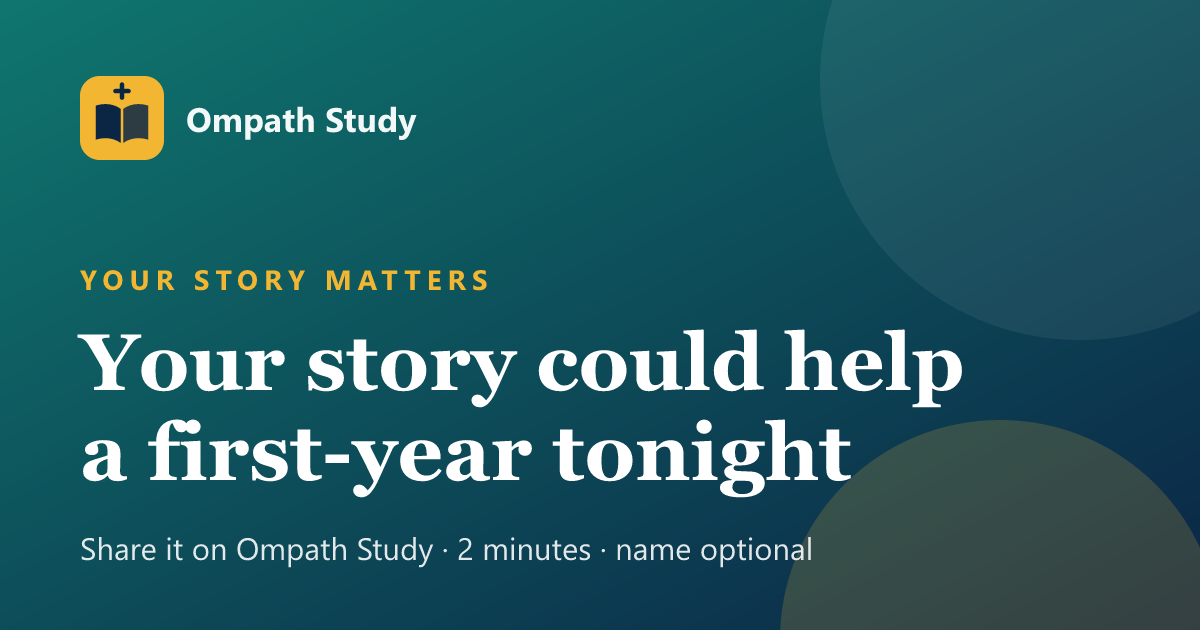
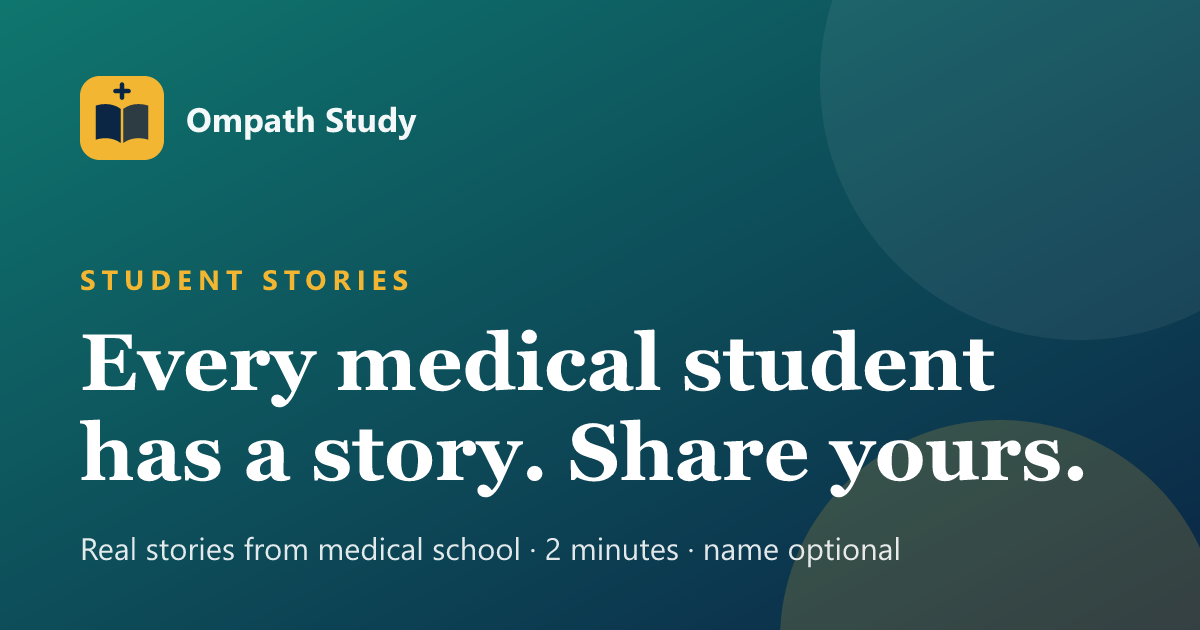
AI: free daily limits with in-chat upgrade card, Explain and missed-question list in the drill; inclusive story sharing wording and thumbnail

diff --git a/src/components/ai/QuestionDrill.tsx b/src/components/ai/QuestionDrill.tsx
@@ -1,30 +1,49 @@
 import { useCallback, useEffect, useMemo, useRef, useState } from "react";
-import { ExternalLink, Eye, EyeOff, Loader2, Shuffle } from "lucide-react";
+import { Check, ExternalLink, Eye, EyeOff, Loader2, Shuffle, Sparkles, X } from "lucide-react";
 import { Dialog, DialogContent, DialogDescription, DialogTitle } from "@/components/ui/dialog";
 import { Answer } from "@/components/ai/AnswerText";
+import UpgradeCard from "@/components/ai/UpgradeCard";
+import { FREE_DAILY_PICTURES, countPictures, picturesUsedToday } from "@/lib/ompathAi";
 import { SUBJECT_LABEL, loadBanks, pickQuestions, sectionFor, sectionsOf, type Bank, type BankQuestion, type Subject } from "@/lib/questionBank";
 
 const SELECT = "h-10 min-w-0 flex-1 rounded-lg border border-border bg-background px-2.5 text-sm font-semibold outline-none focus:border-primary";
+const MISSED_KEY = "ompath_missed_v1";
+const MISSED = "__missed__";
+
+const readMissed = (): BankQuestion[] => { try { const v = JSON.parse(localStorage.getItem(MISSED_KEY) ?? "[]"); return Array.isArray(v) ? v : []; } catch { return []; } };
+const writeMissed = (list: BankQuestion[]) => { try { localStorage.setItem(MISSED_KEY, JSON.stringify(list.slice(-120))); } catch { /* storage full */ } };
 
 /**
  * Spot questions from the anatomy banks, inside Ompath AI: choose Gross anatomy, Histology or Embryology, narrow to a region or tissue,
- * and get five good questions at a time (ones with pictures first). The picture is shown right here and the answer opens on tap.
+ * and get five good questions at a time (ones with pictures first). The picture is shown right here, the answer opens on tap,
+ * "Explain" asks the AI to teach it, and questions marked "Missed" are kept so they can be revised later.
+ * Free accounts get a daily number of picture questions; the first set is always free.
  */
-export default function QuestionDrill({ subject: initialSubject, topic, canReveal, onNeedSubscribe, onOpen }: { subject: Subject; topic: string; canReveal: boolean; onNeedSubscribe: () => void; onOpen: (href: string) => void }) {
+export default function QuestionDrill({ subject: initialSubject, topic, canReveal, onNeedSubscribe, onOpen, onExplain }: { subject: Subject; topic: string; canReveal: boolean; onNeedSubscribe: () => void; onOpen: (href: string) => void; onExplain: (q: BankQuestion) => void }) {
   const [subject, setSubject] = useState<Subject>(initialSubject);
   const [banks, setBanks] = useState<Bank[] | null>(null);
   const [section, setSection] = useState("");
   const [picked, setPicked] = useState<BankQuestion[]>([]);
   const [shown, setShown] = useState<Set<string>>(new Set());
+  const [missed, setMissed] = useState<BankQuestion[]>(readMissed);
+  const [marked, setMarked] = useState<Record<string, "got" | "missed">>({});
+  const [blocked, setBlocked] = useState(false);
   const [zoom, setZoom] = useState<{ src: string; alt: string } | null>(null);
+  const [, bump] = useState(0);
   const seen = useRef<Set<string>>(new Set());
   const first = useRef(true);
 
-  const draw = useCallback((b: Bank[], sec: string) => {
-    const next = pickQuestions(b, sec, 5, seen.current);
+  const myMissed = useMemo(() => missed.filter((q) => banks?.some((b) => b.id === q.bankId)), [missed, banks]);
+
+  const draw = useCallback((b: Bank[], sec: string, counted: boolean, mine: BankQuestion[]) => {
+    if (counted && !canReveal && picturesUsedToday() >= FREE_DAILY_PICTURES) { setBlocked(true); return; }
+    setBlocked(false);
+    const source = sec === MISSED ? [{ id: "missed", title: "Missed", href: "", subject: "gross" as Subject, questions: mine }] : b;
+    const next = pickQuestions(source, sec === MISSED ? "" : sec, 5, seen.current);
     next.forEach((q) => seen.current.add(q.id));
-    setPicked(next); setShown(new Set());
-  }, []);
+    if (counted && !canReveal) countPictures(next.filter((q) => q.image).length);
+    setPicked(next); setShown(new Set()); setMarked({}); bump((n) => n + 1);
+  }, [canReveal]);
 
   useEffect(() => {
     let on = true;
@@ -35,37 +54,48 @@ export default function QuestionDrill({ subject: initialSubject, topic, canRevea
       const sec = first.current ? sectionFor(sectionsOf(b), topic) : "";
       first.current = false;
       setSection(sec);
-      draw(b, sec);
+      // opening the drill is always free; only asking for more is counted
+      if (!canReveal && picturesUsedToday() >= FREE_DAILY_PICTURES) setBlocked(true); else draw(b, sec, false, []);
     });
     return () => { on = false; };
-  }, [subject, topic, draw]);
+  }, [subject, topic, draw, canReveal]);
 
   const sections = useMemo(() => (banks ? sectionsOf(banks) : []), [banks]);
   const total = useMemo(() => (banks ?? []).reduce((n, b) => n + b.questions.length, 0), [banks]);
-  const inSection = sections.find((s) => s.name === section)?.count ?? total;
+  const inSection = section === MISSED ? myMissed.length : sections.find((s) => s.name === section)?.count ?? total;
   const main = banks?.[0];
+  const left = Math.max(0, FREE_DAILY_PICTURES - picturesUsedToday());
 
   const reveal = (q: BankQuestion) => {
     if (!canReveal) { onNeedSubscribe(); return; }
     setShown((s) => { const n = new Set(s); n.has(q.id) ? n.delete(q.id) : n.add(q.id); return n; });
   };
+  const mark = (q: BankQuestion, how: "got" | "missed") => {
+    setMarked((m) => ({ ...m, [q.id]: how }));
+    const rest = missed.filter((x) => x.question !== q.question || x.bankId !== q.bankId);
+    const next = how === "missed" ? [...rest, q] : rest;
+    setMissed(next); writeMissed(next);
+  };
 
   return (
     <section className="rounded-2xl border border-border bg-card p-3" aria-label="Question drill">
       <div className="flex flex-wrap gap-2">
-        <select value={subject} onChange={(e) => setSubject(e.target.value as Subject)} aria-label="Subject" className={SELECT}>
+        <select value={subject} onChange={(e) => { setSubject(e.target.value as Subject); setBlocked(false); }} aria-label="Subject" className={SELECT}>
           {(Object.keys(SUBJECT_LABEL) as Subject[]).map((s) => <option key={s} value={s}>{SUBJECT_LABEL[s]}</option>)}
         </select>
-        <select value={section} onChange={(e) => { setSection(e.target.value); if (banks) { seen.current = new Set(); draw(banks, e.target.value); } }} aria-label="Section" disabled={!banks} className={SELECT}>
+        <select value={section} onChange={(e) => { setSection(e.target.value); if (banks) { seen.current = new Set(); draw(banks, e.target.value, true, myMissed); } }} aria-label="Section" disabled={!banks} className={SELECT}>
           <option value="">All sections ({total})</option>
+          {myMissed.length > 0 && <option value={MISSED}>My missed questions ({myMissed.length})</option>}
           {sections.map((s) => <option key={s.name} value={s.name}>{s.name} ({s.count})</option>)}
         </select>
       </div>
 
       {banks === null ? (
         <p className="flex items-center gap-2 px-1 py-6 text-sm text-muted-foreground"><Loader2 className="h-4 w-4 animate-spin" /> Getting the questions…</p>
+      ) : blocked ? (
+        <div className="mt-3"><UpgradeCard kind="pictures" /></div>
       ) : picked.length === 0 ? (
-        <p className="px-1 py-6 text-sm text-muted-foreground">No {SUBJECT_LABEL[subject].toLowerCase()} questions are on the site yet.</p>
+        <p className="px-1 py-6 text-sm text-muted-foreground">{section === MISSED ? "Nothing missed here. Well done." : `No ${SUBJECT_LABEL[subject].toLowerCase()} questions are on the site yet.`}</p>
       ) : (
         <ol className="mt-3 space-y-3">
           {picked.map((q, i) => (
@@ -80,17 +110,26 @@ export default function QuestionDrill({ subject: initialSubject, topic, canRevea
                 {shown.has(q.id) ? <EyeOff className="h-3.5 w-3.5" /> : <Eye className="h-3.5 w-3.5" />}
                 {shown.has(q.id) ? "Hide answer" : canReveal ? "Reveal answer" : "Reveal (subscribers)"}
               </button>
-              {shown.has(q.id) && <div className="mt-2 rounded-lg border border-emerald-500/30 bg-emerald-500/5 p-3"><Answer text={q.answer} compact /></div>}
+              {shown.has(q.id) && (
+                <div className="mt-2 space-y-2.5">
+                  <div className="rounded-lg border border-emerald-500/30 bg-emerald-500/5 p-3"><Answer text={q.answer} compact /></div>
+                  <div className="flex flex-wrap items-center gap-1.5">
+                    <button type="button" onClick={() => mark(q, "got")} aria-pressed={marked[q.id] === "got"} className={`inline-flex items-center gap-1 rounded-full border px-3 py-1 text-xs font-bold ${marked[q.id] === "got" ? "border-emerald-500 bg-emerald-500 text-white" : "border-border hover:border-emerald-500"}`}><Check className="h-3.5 w-3.5" /> Got it</button>
+                    <button type="button" onClick={() => mark(q, "missed")} aria-pressed={marked[q.id] === "missed"} className={`inline-flex items-center gap-1 rounded-full border px-3 py-1 text-xs font-bold ${marked[q.id] === "missed" ? "border-destructive bg-destructive text-white" : "border-border hover:border-destructive"}`}><X className="h-3.5 w-3.5" /> Missed it</button>
+                    <button type="button" onClick={() => onExplain(q)} className="inline-flex items-center gap-1 rounded-full border border-primary/40 bg-primary/5 px-3 py-1 text-xs font-bold text-primary hover:bg-primary/10"><Sparkles className="h-3.5 w-3.5" /> Explain</button>
+                  </div>
+                </div>
+              )}
             </li>
           ))}
         </ol>
       )}
 
-      {banks && picked.length > 0 && (
+      {banks && !blocked && picked.length > 0 && (
         <div className="mt-3 flex flex-wrap items-center gap-2">
-          <button type="button" onClick={() => draw(banks, section)} className="inline-flex items-center gap-1.5 rounded-lg bg-primary px-3.5 py-2 text-sm font-bold text-primary-foreground"><Shuffle className="h-4 w-4" /> 5 more</button>
-          {main && <button type="button" onClick={() => onOpen(main.href)} className="inline-flex items-center gap-1.5 rounded-lg border border-border px-3.5 py-2 text-sm font-bold hover:border-primary hover:text-primary"><ExternalLink className="h-4 w-4" /> Open the full bank</button>}
-          <span className="text-xs text-muted-foreground">{inSection} questions here</span>
+          <button type="button" onClick={() => draw(banks, section, true, myMissed)} className="inline-flex items-center gap-1.5 rounded-lg bg-primary px-3.5 py-2 text-sm font-bold text-primary-foreground"><Shuffle className="h-4 w-4" /> 5 more</button>
+          {main && section !== MISSED && <button type="button" onClick={() => onOpen(main.href)} className="inline-flex items-center gap-1.5 rounded-lg border border-border px-3.5 py-2 text-sm font-bold hover:border-primary hover:text-primary"><ExternalLink className="h-4 w-4" /> Open the full bank</button>}
+          <span className="text-xs text-muted-foreground">{inSection} questions here{!canReveal ? ` · ${left} free picture questions left today` : ""}</span>
         </div>
       )}
 

diff --git a/src/components/ai/OmpathAIHost.tsx b/src/components/ai/OmpathAIHost.tsx
@@ -9,6 +9,7 @@ import NotePreview from "@/components/ai/NotePreview";
 import OmpathMark from "@/components/ai/OmpathMark";
 import { Answer } from "@/components/ai/AnswerText";
 import QuestionDrill from "@/components/ai/QuestionDrill";
+import UpgradeCard from "@/components/ai/UpgradeCard";
 import { SUBJECT_LABEL, drillIntent } from "@/lib/questionBank";
 import { supabase } from "@/integrations/supabase/client";
 import { useStudentAccess } from "@/lib/student";
@@ -146,7 +147,7 @@ export default function OmpathAIHost() {
 
   useEffect(() => { if (open) { try { sessionStorage.removeItem(RESUME_KEY); } catch { /* ignore */ } setResume(false); } }, [open]);
 
-  async function ask(question: string, opts: { fresh?: boolean } = {}) {
+  async function ask(question: string, opts: { fresh?: boolean; context?: string } = {}) {
     const text = question.trim();
     if (text.length < 2 || busy) return;
     let sid = aiStore.get().activeId;
@@ -212,7 +213,7 @@ export default function OmpathAIHost() {
       setBusy(false);
     }
     if (limitHit) {
-      aiStore.addTurn(sessionId, { id, q: text, answer: "", hits: [], grounded: true, error: `You have used today's ${FREE_DAILY_QUESTIONS} free questions. Subscribe for unlimited, or come back tomorrow. Greetings and questions you have asked before are still instant.`, at: Date.now() });
+      aiStore.addTurn(sessionId, { id, q: text, answer: "", hits: [], grounded: true, error: "You have reached today's free AI limit.", upgrade: "questions", at: Date.now() });
       aiStore.flush();
       return;
     }
@@ -234,7 +235,7 @@ export default function OmpathAIHost() {
         return;
       }
       countQuestion();
-      const answer = await streamAnswer({ question: text, history: prior, retrieval }, { onText: (full) => aiStore.patchTurn(sessionId, id, { answer: full }), signal: abort.current.signal });
+      const answer = await streamAnswer({ question: opts.context ? `${text}\n\nThe official answer key for this question, from the Ompath bank:\n${opts.context}` : text, history: prior, retrieval }, { onText: (full) => aiStore.patchTurn(sessionId, id, { answer: full }), signal: abort.current.signal });
       aiStore.patchTurn(sessionId, id, { answer });
       aiStore.flush();
       if (answer.trim().length > 40) { saveCached(text, { answer, grounded: retrieval.grounded, hits: retrieval.hits, followUps: followUps(retrieval.parsed) }); void saveShared(text, answer, retrieval.grounded); }
@@ -379,7 +380,8 @@ export default function OmpathAIHost() {
                           </div>
                         )}
                       </div>
-                      {t.drill && <QuestionDrill key={t.id} subject={t.drill.subject} topic={t.drill.topic} canReveal={unlimited} onNeedSubscribe={() => openSubscribePrompt("Subscribe to reveal answers.")} onOpen={(href) => goFull({ href } as SiteHit)} />}
+                      {t.drill && <QuestionDrill key={t.id} subject={t.drill.subject} topic={t.drill.topic} canReveal={unlimited} onNeedSubscribe={() => openSubscribePrompt("Subscribe to reveal answers.")} onOpen={(href) => goFull({ href } as SiteHit)} onExplain={(q) => void ask(`Explain: ${q.question}`, { context: q.answer })} />}
+                      {t.upgrade && <UpgradeCard kind={t.upgrade} />}
                       {t.links && t.links.length > 0 && <div className="flex flex-wrap gap-2">{t.links.map((l) => <button key={l.href} type="button" onClick={() => goFull({ href: l.href } as SiteHit)} className="inline-flex items-center gap-1.5 rounded-lg bg-primary px-3 py-2 text-sm font-bold text-primary-foreground"><ExternalLink className="h-4 w-4" /> {l.label}</button>)}</div>}
                       {t.hits.length > 0 && (
                         <div className="space-y-3">

diff --git a/src/pages/Stories.tsx b/src/pages/Stories.tsx
@@ -138,10 +138,10 @@ export default function Stories() {
         <div className="pointer-events-none absolute -bottom-16 left-1/3 h-48 w-48 rounded-full bg-[#f2b632]/25 blur-2xl" aria-hidden="true" />
         <p className="relative text-xs font-bold uppercase tracking-[0.2em] text-white/80">Ompath Study</p>
         <h1 className="relative mt-1 font-serif text-4xl font-bold sm:text-5xl">Student Stories</h1>
-        <p className="relative mt-2 max-w-xl text-sm text-white/90 sm:text-base">The late nights, the wards, the wins and the wobbles. Read what medical school is really like, then share your own. Someone out there needs your story, and your name can stay private.</p>
+        <p className="relative mt-2 max-w-xl text-sm text-white/90 sm:text-base">The late nights, the wards, the wins and the wobbles. Read what medical school is really like, then share your own. Every year has something worth telling, and your name can stay private.</p>
         <div className="relative mt-5 flex flex-wrap items-center gap-3">
           <button type="button" onClick={openWriter} className="inline-flex items-center gap-2 rounded-xl bg-white px-5 py-3 text-sm font-bold text-[#0b2545] shadow transition-transform hover:scale-[1.02] active:scale-95"><PenLine className="h-4 w-4" /> Share your story</button>
-          <button type="button" onClick={() => void shareOut(INVITE_TEXT.split("\n")[0], INVITE_URL, "Your story could help a first-year tonight")} className="inline-flex items-center gap-2 rounded-xl border border-white/40 bg-white/10 px-4 py-3 text-sm font-bold text-white backdrop-blur transition-colors hover:bg-white/20"><MessageCircle className="h-4 w-4" /> Invite classmates</button>
+          <button type="button" onClick={() => void shareOut(INVITE_TEXT.split("\n")[0], INVITE_URL, "Every medical student has a story. Share yours.")} className="inline-flex items-center gap-2 rounded-xl border border-white/40 bg-white/10 px-4 py-3 text-sm font-bold text-white backdrop-blur transition-colors hover:bg-white/20"><MessageCircle className="h-4 w-4" /> Invite classmates</button>
           {stories.length > 0 && <span className="rounded-full bg-white/15 px-3 py-1.5 text-xs font-semibold backdrop-blur">{stories.length} stor{stories.length === 1 ? "y" : "ies"} shared</span>}
         </div>
       </section>

diff --git a/src/components/ai/UpgradeCard.tsx b/src/components/ai/UpgradeCard.tsx
@@ -1,0 +1,32 @@
+import { Check, Lock } from "lucide-react";
+import { FREE_DAILY_PICTURES, FREE_DAILY_QUESTIONS } from "@/lib/ompathAi";
+import { openSubscribePrompt } from "@/lib/subscribe-prompt";
+
+const COPY = {
+  questions: {
+    title: "You have used today's free AI questions",
+    why: `Free accounts get ${FREE_DAILY_QUESTIONS} AI questions a day. Greetings, your timetable, notes search and questions you have asked before stay free and instant.`,
+    reason: "Subscribe for unlimited Ompath AI questions, answers, and picture questions.",
+  },
+  pictures: {
+    title: "That is today's free picture questions",
+    why: `Free accounts get ${FREE_DAILY_PICTURES} picture questions a day. Your first set each time you open the drill is always free.`,
+    reason: "Subscribe for unlimited picture questions, answers and AI explanations.",
+  },
+} as const;
+
+/** The in-chat "you have reached the free limit" card: it says what is free, what a subscription adds, and opens the existing payment window. */
+export default function UpgradeCard({ kind }: { kind: "questions" | "pictures" }) {
+  const c = COPY[kind];
+  return (
+    <section className="overflow-hidden rounded-2xl border border-primary/30 bg-gradient-to-br from-primary/10 via-card to-card p-4" aria-label="Upgrade">
+      <p className="flex items-center gap-2 font-serif text-base font-bold"><Lock className="h-4 w-4 text-primary" /> {c.title}</p>
+      <p className="mt-1 text-sm text-muted-foreground">{c.why}</p>
+      <ul className="mt-3 space-y-1.5 text-sm">
+        {["Unlimited AI questions and explanations", "Every spot-question answer, with pictures", "Verified answer keys on every paper"].map((t) => <li key={t} className="flex items-start gap-2"><Check className="mt-0.5 h-4 w-4 shrink-0 text-primary" />{t}</li>)}
+      </ul>
+      <button type="button" onClick={() => openSubscribePrompt(c.reason)} className="mt-4 w-full rounded-xl bg-primary px-4 py-3 text-sm font-bold text-primary-foreground shadow-sm transition-transform active:scale-[0.98]">See plans and subscribe</button>
+      <p className="mt-2 text-center text-xs text-muted-foreground">Your free allowance comes back tomorrow.</p>
+    </section>
+  );
+}

diff --git a/api/og-meta.ts b/api/og-meta.ts
@@ -41,9 +41,9 @@ const STATIC_PAGE_META: Record<string, { title: string; description: string; lin
     links: ["/", "/blog", "/mcqs", "/flashcards", "/exams", "/year/1", "/year/2", "/year/3", "/year/4", "/year/5", "/year/6"],
   },
   "/stories": {
-    title: "Your story could help a first-year tonight | Ompath Study",
-    description: "Real experiences from medical students. Add yours in two minutes, with or without your name. Someone will be glad you did.",
-    image: "https://www.ompathstudy.com/og/stories.png?v=2",
+    title: "Every medical student has a story. Share yours | Ompath Study",
+    description: "Read real stories from medical school, from first year to final year, and add yours in two minutes. Your name can stay private.",
+    image: "https://www.ompathstudy.com/og/stories.png?v=3",
     links: ["/", "/blog", "/mcqs", "/flashcards", "/exams"],
   },
 };

diff --git a/src/lib/ompathAi.ts b/src/lib/ompathAi.ts
@@ -289,3 +289,13 @@ export function questionsUsedToday(): number {
 export function countQuestion() {
   try { localStorage.setItem(USAGE_KEY, JSON.stringify({ day: today(), n: questionsUsedToday() + 1 })); } catch { /* storage blocked */ }
 }
+
+// ---------- picture questions (images cost bandwidth, so free accounts get a daily number) ----------
+const PIC_KEY = "ompath_ai_pictures";
+export const FREE_DAILY_PICTURES = 15;
+export function picturesUsedToday(): number {
+  try { const v = JSON.parse(localStorage.getItem(PIC_KEY) ?? "null"); return v?.day === today() ? Number(v.n) || 0 : 0; } catch { return 0; }
+}
+export function countPictures(n: number) {
+  try { localStorage.setItem(PIC_KEY, JSON.stringify({ day: today(), n: picturesUsedToday() + n })); } catch { /* storage blocked */ }
+}

diff --git a/src/lib/storyShare.ts b/src/lib/storyShare.ts
@@ -10,7 +10,8 @@ export function storyThumb(category: string): string {
 export const isGeneratedThumb = (url?: string | null) => Boolean(url && url.startsWith(`${SITE_URL}/og/stories/`));
 
 export const INVITE_URL = `${SITE_URL}/stories?write=1`;
-export const INVITE_TEXT = `Your medical school story could be the one a first-year needs to read tonight. Share it on Ompath Study: it takes two minutes, and your name can stay private.\n${INVITE_URL}`;
+export const INVITE_TEXT = `Every medical student has a story worth telling, from first year to final year. Read real stories and add yours on Ompath Study: it takes two minutes, and your name can stay private.
+${INVITE_URL}`;
 
 export const whatsappLink = (text: string) => `https://wa.me/?text=${encodeURIComponent(text)}`;
 

diff --git a/src/test/question-bank.test.ts b/src/test/question-bank.test.ts
@@ -77,3 +77,14 @@ describe("drillIntent", () => {
     expect(sectionFor([{ name: "Pelvis & Hip" }], "")).toBe("");
   });
 });
+
+import { FREE_DAILY_PICTURES, countPictures, picturesUsedToday } from "@/lib/ompathAi";
+describe("free picture allowance", () => {
+  it("counts picture questions for the day", () => {
+    localStorage.clear();
+    expect(picturesUsedToday()).toBe(0);
+    countPictures(5); countPictures(4);
+    expect(picturesUsedToday()).toBe(9);
+    expect(FREE_DAILY_PICTURES).toBeGreaterThan(9);
+  });
+});

diff --git a/src/lib/ompathAiStore.ts b/src/lib/ompathAiStore.ts
@@ -20,6 +20,8 @@ export interface AiTurn {
   links?: { label: string; href: string }[];
   /** Starred by the student, so it shows under Saved. */
   starred?: boolean;
+  /** Shows the "free limit reached, subscribe" card under this turn. */
+  upgrade?: "questions" | "pictures";
   /** A set of spot questions (with pictures) to drill, from the anatomy banks. */
   drill?: { subject: "gross" | "histology" | "embryology"; topic: string };
 }
